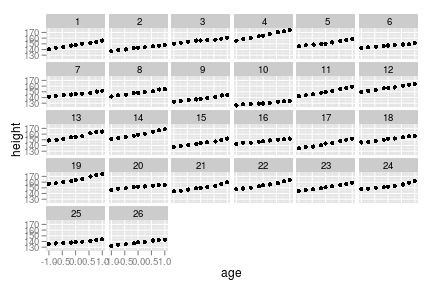
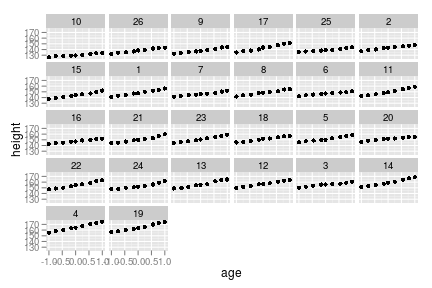
redo pr2 figs to order by intercept

diff --git a/hw9ashander.tex b/hw9ashander.tex
@@ -618,13 +618,18 @@ This points to an issue of identifiability between random intercept on district 
 \hlstd{}\hlsymbol{b\usebox{\hlnormalsizeboxunderscore}dist}{\ }\hlassignement{\usebox{\hlnormalsizeboxlessthan}-}{\ }\hlfunctioncall{ranef}\hlkeyword{(}\hlsymbol{m3}\hlkeyword{)}\hlkeyword{\usebox{\hlnormalsizeboxdollar}}\hlsymbol{district}\hlkeyword{[}\hlkeyword{,}{\ }\hlnumber{2}\hlkeyword{]}\hspace*{\fill}\\
 \hlstd{}\hlsymbol{a}{\ }\hlassignement{\usebox{\hlnormalsizeboxlessthan}-}{\ }\hlfunctioncall{fixef}\hlkeyword{(}\hlsymbol{m3}\hlkeyword{)}\hlkeyword{[}\hlnumber{1}\hlkeyword{]}\hspace*{\fill}\\
 \hlstd{}\hlsymbol{b}{\ }\hlassignement{\usebox{\hlnormalsizeboxlessthan}-}{\ }\hlfunctioncall{fixef}\hlkeyword{(}\hlsymbol{m3}\hlkeyword{)}\hlkeyword{[}\hlnumber{2}\hlkeyword{]}\hspace*{\fill}\\
-\hlstd{}\hlsymbol{p\usebox{\hlnormalsizeboxunderscore}urban}{\ }\hlassignement{\usebox{\hlnormalsizeboxlessthan}-}{\ }\hlfunctioncall{logistic}\hlkeyword{(}\hlsymbol{a}{\ }\hlkeyword{+}{\ }\hlsymbol{a\usebox{\hlnormalsizeboxunderscore}dist}{\ }\hlkeyword{+}{\ }\hlsymbol{b\usebox{\hlnormalsizeboxunderscore}dist}{\ }\hlkeyword{+}{\ }\hlsymbol{b}\hlkeyword{)}\hspace*{\fill}\\
-\hlstd{}\hlsymbol{p\usebox{\hlnormalsizeboxunderscore}rural}{\ }\hlassignement{\usebox{\hlnormalsizeboxlessthan}-}{\ }\hlfunctioncall{logistic}\hlkeyword{(}\hlsymbol{a}{\ }\hlkeyword{+}{\ }\hlsymbol{a\usebox{\hlnormalsizeboxunderscore}dist}\hlkeyword{)}\hspace*{\fill}\\
+\hlstd{}\hlsymbol{urban}{\ }\hlassignement{\usebox{\hlnormalsizeboxlessthan}-}{\ }\hlfunctioncall{logistic}\hlkeyword{(}\hlsymbol{a}{\ }\hlkeyword{+}{\ }\hlsymbol{a\usebox{\hlnormalsizeboxunderscore}dist}{\ }\hlkeyword{+}{\ }\hlsymbol{b\usebox{\hlnormalsizeboxunderscore}dist}{\ }\hlkeyword{+}{\ }\hlsymbol{b}\hlkeyword{)}\hspace*{\fill}\\
+\hlstd{}\hlsymbol{rural}{\ }\hlassignement{\usebox{\hlnormalsizeboxlessthan}-}{\ }\hlfunctioncall{logistic}\hlkeyword{(}\hlsymbol{a}{\ }\hlkeyword{+}{\ }\hlsymbol{a\usebox{\hlnormalsizeboxunderscore}dist}\hlkeyword{)}\hspace*{\fill}\\
+\hlstd{}\hlsymbol{p.corr}{\ }\hlassignement{\usebox{\hlnormalsizeboxlessthan}-}{\ }\hlfunctioncall{data.frame}\hlkeyword{(}\hlargument{urban}{\ }\hlargument{=}{\ }\hlsymbol{urban}\hlkeyword{,}{\ }\hlargument{rural}{\ }\hlargument{=}{\ }\hlsymbol{rural}\hlkeyword{)}\hspace*{\fill}\\
+\hlstd{}\hlsymbol{p.corr}\hlkeyword{\usebox{\hlnormalsizeboxdollar}}\hlsymbol{lab}{\ }\hlassignement{\usebox{\hlnormalsizeboxlessthan}-}{\ }\hlfunctioncall{as.character}\hlkeyword{(}\hlfunctioncall{unique}\hlkeyword{(}\hlsymbol{d2}\hlkeyword{\usebox{\hlnormalsizeboxdollar}}\hlsymbol{district}\hlkeyword{)}\hlkeyword{)}\hspace*{\fill}\\
+\hlstd{}\hspace*{\fill}\\
 \hlstd{}\hlfunctioncall{plot}\hlkeyword{(}\hlnumber{1}\hlkeyword{,}{\ }\hlnumber{1}\hlkeyword{,}{\ }\hlargument{ylim}{\ }\hlargument{=}{\ }\hlfunctioncall{c}\hlkeyword{(}\hlnumber{0}\hlkeyword{,}{\ }\hlnumber{1}\hlkeyword{)}\hlkeyword{,}{\ }\hlargument{xlim}{\ }\hlargument{=}{\ }\hlfunctioncall{c}\hlkeyword{(}\hlnumber{0}\hlkeyword{,}{\ }\hlnumber{1}\hlkeyword{)}\hlkeyword{,}{\ }\hlargument{pch}{\ }\hlargument{=}{\ }\hlstring{"{}"{}}\hlkeyword{,}{\ }\hlargument{xlab}{\ }\hlargument{=}{\ }\hlstring{"{}probability{\ }contraceptive{\ }use{\ }rural"{}}\hlkeyword{,}\hspace*{\fill}\\
 \hlstd{}{\ }{\ }{\ }{\ }\hlargument{ylab}{\ }\hlargument{=}{\ }\hlstring{"{}probability{\ }contraceptive{\ }use{\ }urban"{}}\hlkeyword{)}\hspace*{\fill}\\
 \hlstd{}\hlfunctioncall{abline}\hlkeyword{(}\hlnumber{0}\hlkeyword{,}{\ }\hlnumber{1}\hlkeyword{,}{\ }\hlargument{lwd}{\ }\hlargument{=}{\ }\hlnumber{2}\hlkeyword{,}{\ }\hlargument{col}{\ }\hlargument{=}{\ }\hlstring{"{}grey"{}}\hlkeyword{,}{\ }\hlargument{lty}{\ }\hlargument{=}{\ }\hlnumber{2}\hlkeyword{)}\hspace*{\fill}\\
-\hlstd{}\hlfunctioncall{text}\hlkeyword{(}\hlsymbol{p\usebox{\hlnormalsizeboxunderscore}rural}\hlkeyword{,}{\ }\hlsymbol{p\usebox{\hlnormalsizeboxunderscore}urban}\hlkeyword{,}{\ }\hlargument{labels}{\ }\hlargument{=}{\ }\hlfunctioncall{as.character}\hlkeyword{(}\hlfunctioncall{unique}\hlkeyword{(}\hlsymbol{d2}\hlkeyword{\usebox{\hlnormalsizeboxdollar}}\hlsymbol{district}\hlkeyword{)}\hlkeyword{)}\hlkeyword{,}\hspace*{\fill}\\
-\hlstd{}{\ }{\ }{\ }{\ }\hlargument{col}{\ }\hlargument{=}{\ }\hlfunctioncall{col.alpha}\hlkeyword{(}\hlstring{"{}black"{}}\hlkeyword{,}{\ }\hlnumber{0.6}\hlkeyword{)}\hlkeyword{)}\mbox{}
+\hlstd{}\hlfunctioncall{points}\hlkeyword{(}\hlsymbol{rural}\hlkeyword{,}{\ }\hlsymbol{urban}\hlkeyword{,}{\ }\hlargument{col}{\ }\hlargument{=}{\ }\hlfunctioncall{col.alpha}\hlkeyword{(}\hlstring{"{}grey"{}}\hlkeyword{,}{\ }\hlnumber{0.6}\hlkeyword{)}\hlkeyword{,}{\ }\hlargument{pch}{\ }\hlargument{=}{\ }\hlnumber{19}\hlkeyword{)}\hspace*{\fill}\\
+\hlstd{}\hlcomment{\usebox{\hlnormalsizeboxhash}find{\ }outliers}\hspace*{\fill}\\
+\hlstd{}\hlsymbol{labs}{\ }\hlassignement{\usebox{\hlnormalsizeboxlessthan}-}{\ }\hlsymbol{p.corr}\hlkeyword{[}\hlfunctioncall{c}\hlkeyword{(}\hlnumber{1}\hlkeyword{,}{\ }\hlnumber{4}\hlkeyword{,}{\ }\hlnumber{11}\hlkeyword{,}{\ }\hlnumber{27}\hlkeyword{,}{\ }\hlnumber{34}\hlkeyword{,}{\ }\hlnumber{41}\hlkeyword{,}{\ }\hlnumber{52}\hlkeyword{)}\hlkeyword{,}{\ }\hlkeyword{]}\hspace*{\fill}\\
+\hlstd{}\hlfunctioncall{text}\hlkeyword{(}\hlsymbol{labs}\hlkeyword{\usebox{\hlnormalsizeboxdollar}}\hlsymbol{rural}\hlkeyword{,}{\ }\hlsymbol{labs}\hlkeyword{\usebox{\hlnormalsizeboxdollar}}\hlsymbol{urban}\hlkeyword{,}{\ }\hlargument{labels}{\ }\hlargument{=}{\ }\hlsymbol{labs}\hlkeyword{\usebox{\hlnormalsizeboxdollar}}\hlsymbol{lab}\hlkeyword{)}\mbox{}
 \normalfont
 \end{flushleft}
 
@@ -633,7 +638,6 @@ This points to an issue of identifiability between random intercept on district 
 
 \end{kframe}}
 \end{knitrout}
-
 
 
 \subsection*{Oxford boy growth}
@@ -660,7 +664,12 @@ The data include several boys ({\tt Subject}) have ({\tt height}) measured over 
 \definecolor{shadecolor}{rgb}{.97, .97, .97}{\color{fgcolor}\begin{kframe}
 \begin{flushleft}
 \ttfamily\noindent
-\hlsymbol{g3}{\ }\hlassignement{\usebox{\hlnormalsizeboxlessthan}-}{\ }\hlfunctioncall{ggplot}\hlkeyword{(}\hlsymbol{d3}\hlkeyword{)}\hspace*{\fill}\\
+\hlcomment{\usebox{\hlnormalsizeboxhash}reorder{\ }by{\ }intercept}\hspace*{\fill}\\
+\hlstd{}\hlsymbol{d3}{\ }\hlassignement{\usebox{\hlnormalsizeboxlessthan}-}{\ }\hlfunctioncall{within}\hlkeyword{(}\hlsymbol{d3}\hlkeyword{,}{\ }\hlsymbol{Subject}{\ }\hlassignement{\usebox{\hlnormalsizeboxlessthan}-}{\ }\hlfunctioncall{as.factor}\hlkeyword{(}\hlsymbol{Subject}\hlkeyword{)}\hlkeyword{)}\hspace*{\fill}\\
+\hlstd{}\hlsymbol{d3}{\ }\hlassignement{\usebox{\hlnormalsizeboxlessthan}-}{\ }\hlfunctioncall{within}\hlkeyword{(}\hlsymbol{d3}\hlkeyword{,}{\ }\hlsymbol{Subject}{\ }\hlassignement{\usebox{\hlnormalsizeboxlessthan}-}{\ }\hlfunctioncall{factor}\hlkeyword{(}\hlsymbol{Subject}\hlkeyword{,}{\ }\hlargument{levels}{\ }\hlargument{=}{\ }\hlfunctioncall{order}\hlkeyword{(}\hlfunctioncall{with}\hlkeyword{(}\hlsymbol{d3}\hlkeyword{,}\hspace*{\fill}\\
+\hlstd{}{\ }{\ }{\ }{\ }\hlfunctioncall{by}\hlkeyword{(}\hlsymbol{height}\hlkeyword{,}{\ }\hlsymbol{Subject}\hlkeyword{,}{\ }\hlsymbol{min}\hlkeyword{)}\hlkeyword{)}\hlkeyword{)}\hlkeyword{)}\hlkeyword{)}\hspace*{\fill}\\
+\hlstd{}\hspace*{\fill}\\
+\hlstd{}\hlsymbol{g3}{\ }\hlassignement{\usebox{\hlnormalsizeboxlessthan}-}{\ }\hlfunctioncall{ggplot}\hlkeyword{(}\hlsymbol{d3}\hlkeyword{)}\hspace*{\fill}\\
 \hlstd{}\hlsymbol{g3}{\ }\hlkeyword{+}{\ }\hlfunctioncall{geom\usebox{\hlnormalsizeboxunderscore}point}\hlkeyword{(}\hlfunctioncall{aes}\hlkeyword{(}\hlsymbol{age}\hlkeyword{,}{\ }\hlsymbol{height}\hlkeyword{)}\hlkeyword{)}{\ }\hlkeyword{+}{\ }\hlfunctioncall{facet\usebox{\hlnormalsizeboxunderscore}wrap}\hlkeyword{(}\hlkeyword{\urltilda{}}\hlsymbol{Subject}\hlkeyword{)}\hspace*{\fill}\\
 \hlstd{}\hlsymbol{g3}{\ }\hlkeyword{+}{\ }\hlfunctioncall{geom\usebox{\hlnormalsizeboxunderscore}point}\hlkeyword{(}\hlfunctioncall{aes}\hlkeyword{(}\hlsymbol{age}\hlkeyword{,}{\ }\hlsymbol{height}\hlkeyword{,}{\ }\hlargument{size}{\ }\hlargument{=}{\ }\hlsymbol{Subject}\hlkeyword{)}\hlkeyword{)}\mbox{}
 \normalfont
@@ -764,7 +773,7 @@ It makes sense mechanistically that the boys who are bigger in general durign th
 Boys who grew fast prior to the study would tend to be larger upon initiation of the study, and one might expect these same boys to continue to grow faster. 
 In a sense this correlation captures some of our intution that this is a {\em time series}.
 
-Are we 
+Are we ...
 
 (1) Meant to make projections about future ages? In this case one would want to account for the correlation by including in predictions but also informing starting height by currnt height
 (Be more specific.)
@@ -778,12 +787,30 @@ Are we
 \begin{flushleft}
 \ttfamily\noindent
 \hlsymbol{VC}{\ }\hlassignement{\usebox{\hlnormalsizeboxlessthan}-}{\ }\hlfunctioncall{VarCorr}\hlkeyword{(}\hlsymbol{m4}\hlkeyword{)}\hlkeyword{\usebox{\hlnormalsizeboxdollar}}\hlsymbol{Subject}\hspace*{\fill}\\
-\hlstd{}\hlfunctioncall{attr}\hlkeyword{(}\hlsymbol{VC}\hlkeyword{,}{\ }\hlstring{"{}stddev"{}}\hlkeyword{)}{\ }{\ }\hlcomment{\usebox{\hlnormalsizeboxhash}{\ }random{\ }effects{\ }standard{\ }deviations}\hspace*{\fill}\\
-\hlstd{}\hlfunctioncall{attr}\hlkeyword{(}\hlsymbol{VC}\hlkeyword{,}{\ }\hlstring{"{}correlation"{}}\hlkeyword{)}{\ }{\ }\hlcomment{\usebox{\hlnormalsizeboxhash}{\ }random{\ }effects{\ }correlatins}\hspace*{\fill}\\
-\hlstd{}\hlsymbol{S}{\ }\hlassignement{\usebox{\hlnormalsizeboxlessthan}-}{\ }\hlfunctioncall{matrix}\hlkeyword{(}\hlfunctioncall{c}\hlkeyword{(}\hlsymbol{sa}\hlkeyword{\usebox{\hlnormalsizeboxhat}}\hlnumber{2}\hlkeyword{,}{\ }\hlsymbol{sa}{\ }\hlkeyword{*}{\ }\hlsymbol{sb}{\ }\hlkeyword{*}{\ }\hlsymbol{rho}\hlkeyword{,}{\ }\hlsymbol{sa}{\ }\hlkeyword{*}{\ }\hlsymbol{sb}{\ }\hlkeyword{*}{\ }\hlsymbol{rho}\hlkeyword{,}{\ }\hlsymbol{sb}\hlkeyword{\usebox{\hlnormalsizeboxhat}}\hlnumber{2}\hlkeyword{)}\hlkeyword{,}\hspace*{\fill}\\
-\hlstd{}{\ }{\ }{\ }{\ }\hlargument{nrow}{\ }\hlargument{=}{\ }\hlnumber{2}\hlkeyword{)}\hspace*{\fill}\\
+\hlstd{}\hlfunctioncall{attr}\hlkeyword{(}\hlsymbol{VC}\hlkeyword{,}{\ }\hlstring{"{}stddev"{}}\hlkeyword{)}{\ }{\ }\hlcomment{\usebox{\hlnormalsizeboxhash}{\ }random{\ }effects{\ }standard{\ }deviations}\mbox{}
+\normalfont
+\end{flushleft}
+\begin{verbatim}
+## (Intercept)         age 
+##       8.081       1.681 
+\end{verbatim}
+\begin{flushleft}
+\ttfamily\noindent
+\hlfunctioncall{attr}\hlkeyword{(}\hlsymbol{VC}\hlkeyword{,}{\ }\hlstring{"{}correlation"{}}\hlkeyword{)}{\ }{\ }\hlcomment{\usebox{\hlnormalsizeboxhash}{\ }random{\ }effects{\ }correlatins}\mbox{}
+\normalfont
+\end{flushleft}
+\begin{verbatim}
+##             (Intercept)    age
+## (Intercept)      1.0000 0.6413
+## age              0.6413 1.0000
+\end{verbatim}
+\begin{flushleft}
+\ttfamily\noindent
+\hlcomment{\usebox{\hlnormalsizeboxhash}S{\ }\usebox{\hlnormalsizeboxlessthan}-{\ }matrix({\ }c({\ }sa\usebox{\hlnormalsizeboxhat}2{\ },{\ }sa*sb*rho{\ },{\ }sa*sb*rho{\ },{\ }sb\usebox{\hlnormalsizeboxhat}2{\ }){\ },{\ }nrow=2{\ })}\hspace*{\fill}\\
 \hlstd{}\hspace*{\fill}\\
+\hlstd{}\hlfunctioncall{set.seed}\hlkeyword{(}\hlnumber{10}\hlkeyword{)}\hspace*{\fill}\\
 \hlstd{}\hlsymbol{ages}{\ }\hlassignement{\usebox{\hlnormalsizeboxlessthan}-}{\ }\hlfunctioncall{unique}\hlkeyword{(}\hlsymbol{d3}\hlkeyword{\usebox{\hlnormalsizeboxdollar}}\hlsymbol{age}\hlkeyword{)}\hspace*{\fill}\\
+\hlstd{}\hlsymbol{NREP}{\ }\hlassignement{\usebox{\hlnormalsizeboxlessthan}-}{\ }\hlnumber{10}\hspace*{\fill}\\
 \hlstd{}\hlsymbol{re.pred}{\ }\hlassignement{\usebox{\hlnormalsizeboxlessthan}-}{\ }\hlfunctioncall{mvrnorm}\hlkeyword{(}\hlsymbol{NREP}\hlkeyword{,}{\ }\hlargument{mu}{\ }\hlargument{=}{\ }\hlfunctioncall{c}\hlkeyword{(}\hlnumber{0}\hlkeyword{,}{\ }\hlnumber{0}\hlkeyword{)}\hlkeyword{,}{\ }\hlargument{Sigma}{\ }\hlargument{=}{\ }\hlsymbol{VC}\hlkeyword{)}\hspace*{\fill}\\
 \hlstd{}\hlsymbol{a}{\ }\hlassignement{\usebox{\hlnormalsizeboxlessthan}-}{\ }\hlfunctioncall{fixef}\hlkeyword{(}\hlsymbol{m4}\hlkeyword{)}\hlkeyword{[}\hlstring{"{}(Intercept)"{}}\hlkeyword{]}\hspace*{\fill}\\
 \hlstd{}\hlsymbol{b}{\ }\hlassignement{\usebox{\hlnormalsizeboxlessthan}-}{\ }\hlfunctioncall{fixef}\hlkeyword{(}\hlsymbol{m4}\hlkeyword{)}\hlkeyword{[}\hlstring{"{}age"{}}\hlkeyword{]}\hspace*{\fill}\\
@@ -795,11 +822,21 @@ Are we
 \hlstd{}\hlfunctioncall{require}\hlkeyword{(}\hlsymbol{reshape}\hlkeyword{)}\hspace*{\fill}\\
 \hlstd{}\hlsymbol{df}{\ }\hlassignement{\usebox{\hlnormalsizeboxlessthan}-}{\ }\hlfunctioncall{melt}\hlkeyword{(}\hlsymbol{df.prd}\hlkeyword{,}{\ }\hlargument{id.vars}{\ }\hlargument{=}{\ }\hlfunctioncall{c}\hlkeyword{(}\hlstring{"{}age"{}}\hlkeyword{)}\hlkeyword{)}\hspace*{\fill}\\
 \hlstd{}\hlfunctioncall{names}\hlkeyword{(}\hlsymbol{df}\hlkeyword{)}\hlkeyword{[}\hlnumber{2}\hlkeyword{:}\hlnumber{3}\hlkeyword{]}{\ }\hlassignement{\usebox{\hlnormalsizeboxlessthan}-}{\ }\hlfunctioncall{c}\hlkeyword{(}\hlstring{"{}Subject"{}}\hlkeyword{,}{\ }\hlstring{"{}height"{}}\hlkeyword{)}\hspace*{\fill}\\
+\hlstd{}\hlcomment{\usebox{\hlnormalsizeboxhash}reorder{\ }by{\ }intercept}\hspace*{\fill}\\
+\hlstd{}\hlsymbol{df}{\ }\hlassignement{\usebox{\hlnormalsizeboxlessthan}-}{\ }\hlfunctioncall{within}\hlkeyword{(}\hlsymbol{df}\hlkeyword{,}{\ }\hlsymbol{Subject}{\ }\hlassignement{\usebox{\hlnormalsizeboxlessthan}-}{\ }\hlfunctioncall{as.factor}\hlkeyword{(}\hlsymbol{Subject}\hlkeyword{)}\hlkeyword{)}\hspace*{\fill}\\
+\hlstd{}\hlsymbol{df}{\ }\hlassignement{\usebox{\hlnormalsizeboxlessthan}-}{\ }\hlfunctioncall{within}\hlkeyword{(}\hlsymbol{df}\hlkeyword{,}{\ }\hlsymbol{Subject}{\ }\hlassignement{\usebox{\hlnormalsizeboxlessthan}-}{\ }\hlfunctioncall{factor}\hlkeyword{(}\hlsymbol{Subject}\hlkeyword{,}{\ }\hlargument{levels}{\ }\hlargument{=}{\ }\hlfunctioncall{order}\hlkeyword{(}\hlfunctioncall{with}\hlkeyword{(}\hlsymbol{df}\hlkeyword{,}\hspace*{\fill}\\
+\hlstd{}{\ }{\ }{\ }{\ }\hlfunctioncall{by}\hlkeyword{(}\hlsymbol{height}\hlkeyword{,}{\ }\hlsymbol{Subject}\hlkeyword{,}{\ }\hlsymbol{min}\hlkeyword{)}\hlkeyword{)}\hlkeyword{)}\hlkeyword{)}\hlkeyword{)}\hspace*{\fill}\\
+\hlstd{}\hspace*{\fill}\\
+\hlstd{}\hspace*{\fill}\\
 \hlstd{}\hlsymbol{g5}{\ }\hlassignement{\usebox{\hlnormalsizeboxlessthan}-}{\ }\hlfunctioncall{ggplot}\hlkeyword{(}\hlsymbol{df}\hlkeyword{)}\hspace*{\fill}\\
 \hlstd{}\hlsymbol{g5}{\ }\hlkeyword{+}{\ }\hlfunctioncall{geom\usebox{\hlnormalsizeboxunderscore}point}\hlkeyword{(}\hlfunctioncall{aes}\hlkeyword{(}\hlsymbol{age}\hlkeyword{,}{\ }\hlsymbol{height}\hlkeyword{,}{\ }\hlargument{size}{\ }\hlargument{=}{\ }\hlsymbol{Subject}\hlkeyword{)}\hlkeyword{)}\hspace*{\fill}\\
 \hlstd{}\hlsymbol{g5}{\ }\hlkeyword{+}{\ }\hlfunctioncall{geom\usebox{\hlnormalsizeboxunderscore}point}\hlkeyword{(}\hlfunctioncall{aes}\hlkeyword{(}\hlsymbol{age}\hlkeyword{,}{\ }\hlsymbol{height}\hlkeyword{)}\hlkeyword{)}{\ }\hlkeyword{+}{\ }\hlfunctioncall{facet\usebox{\hlnormalsizeboxunderscore}wrap}\hlkeyword{(}\hlkeyword{\urltilda{}}\hlsymbol{Subject}\hlkeyword{)}\mbox{}
 \normalfont
 \end{flushleft}
+
+
+\centering{}\includegraphics{ox-simulate1} \includegraphics{ox-simulate2} 
+
 \end{kframe}}
 \end{knitrout}
 
@@ -821,18 +858,6 @@ Are we
 \hlstd{}\hlfunctioncall{sfLibrary}\hlkeyword{(}\hlsymbol{rethinking}\hlkeyword{)}\hspace*{\fill}\\
 \hlstd{}\hlfunctioncall{sfExportAll}\hlkeyword{(}\hlkeyword{)}\hspace*{\fill}\\
 \hlstd{}\hlfunctioncall{sfStop}\hlkeyword{(}\hlkeyword{)}\mbox{}
-\normalfont
-\end{flushleft}
-\end{kframe}}
-\end{knitrout}
-
-
-\begin{knitrout}
-\definecolor{shadecolor}{rgb}{.97, .97, .97}{\color{fgcolor}\begin{kframe}
-\begin{flushleft}
-\ttfamily\noindent
-\hlcomment{\usebox{\hlnormalsizeboxhash}\usebox{\hlnormalsizeboxhash}{\ }make{\ }\usebox{\hlnormalsizeboxsinglequote}error{\ }bars\usebox{\hlnormalsizeboxsinglequote}}\hspace*{\fill}\\
-\hlstd{}\hlcomment{\usebox{\hlnormalsizeboxhash}}\mbox{}
 \normalfont
 \end{flushleft}
 \end{kframe}}
